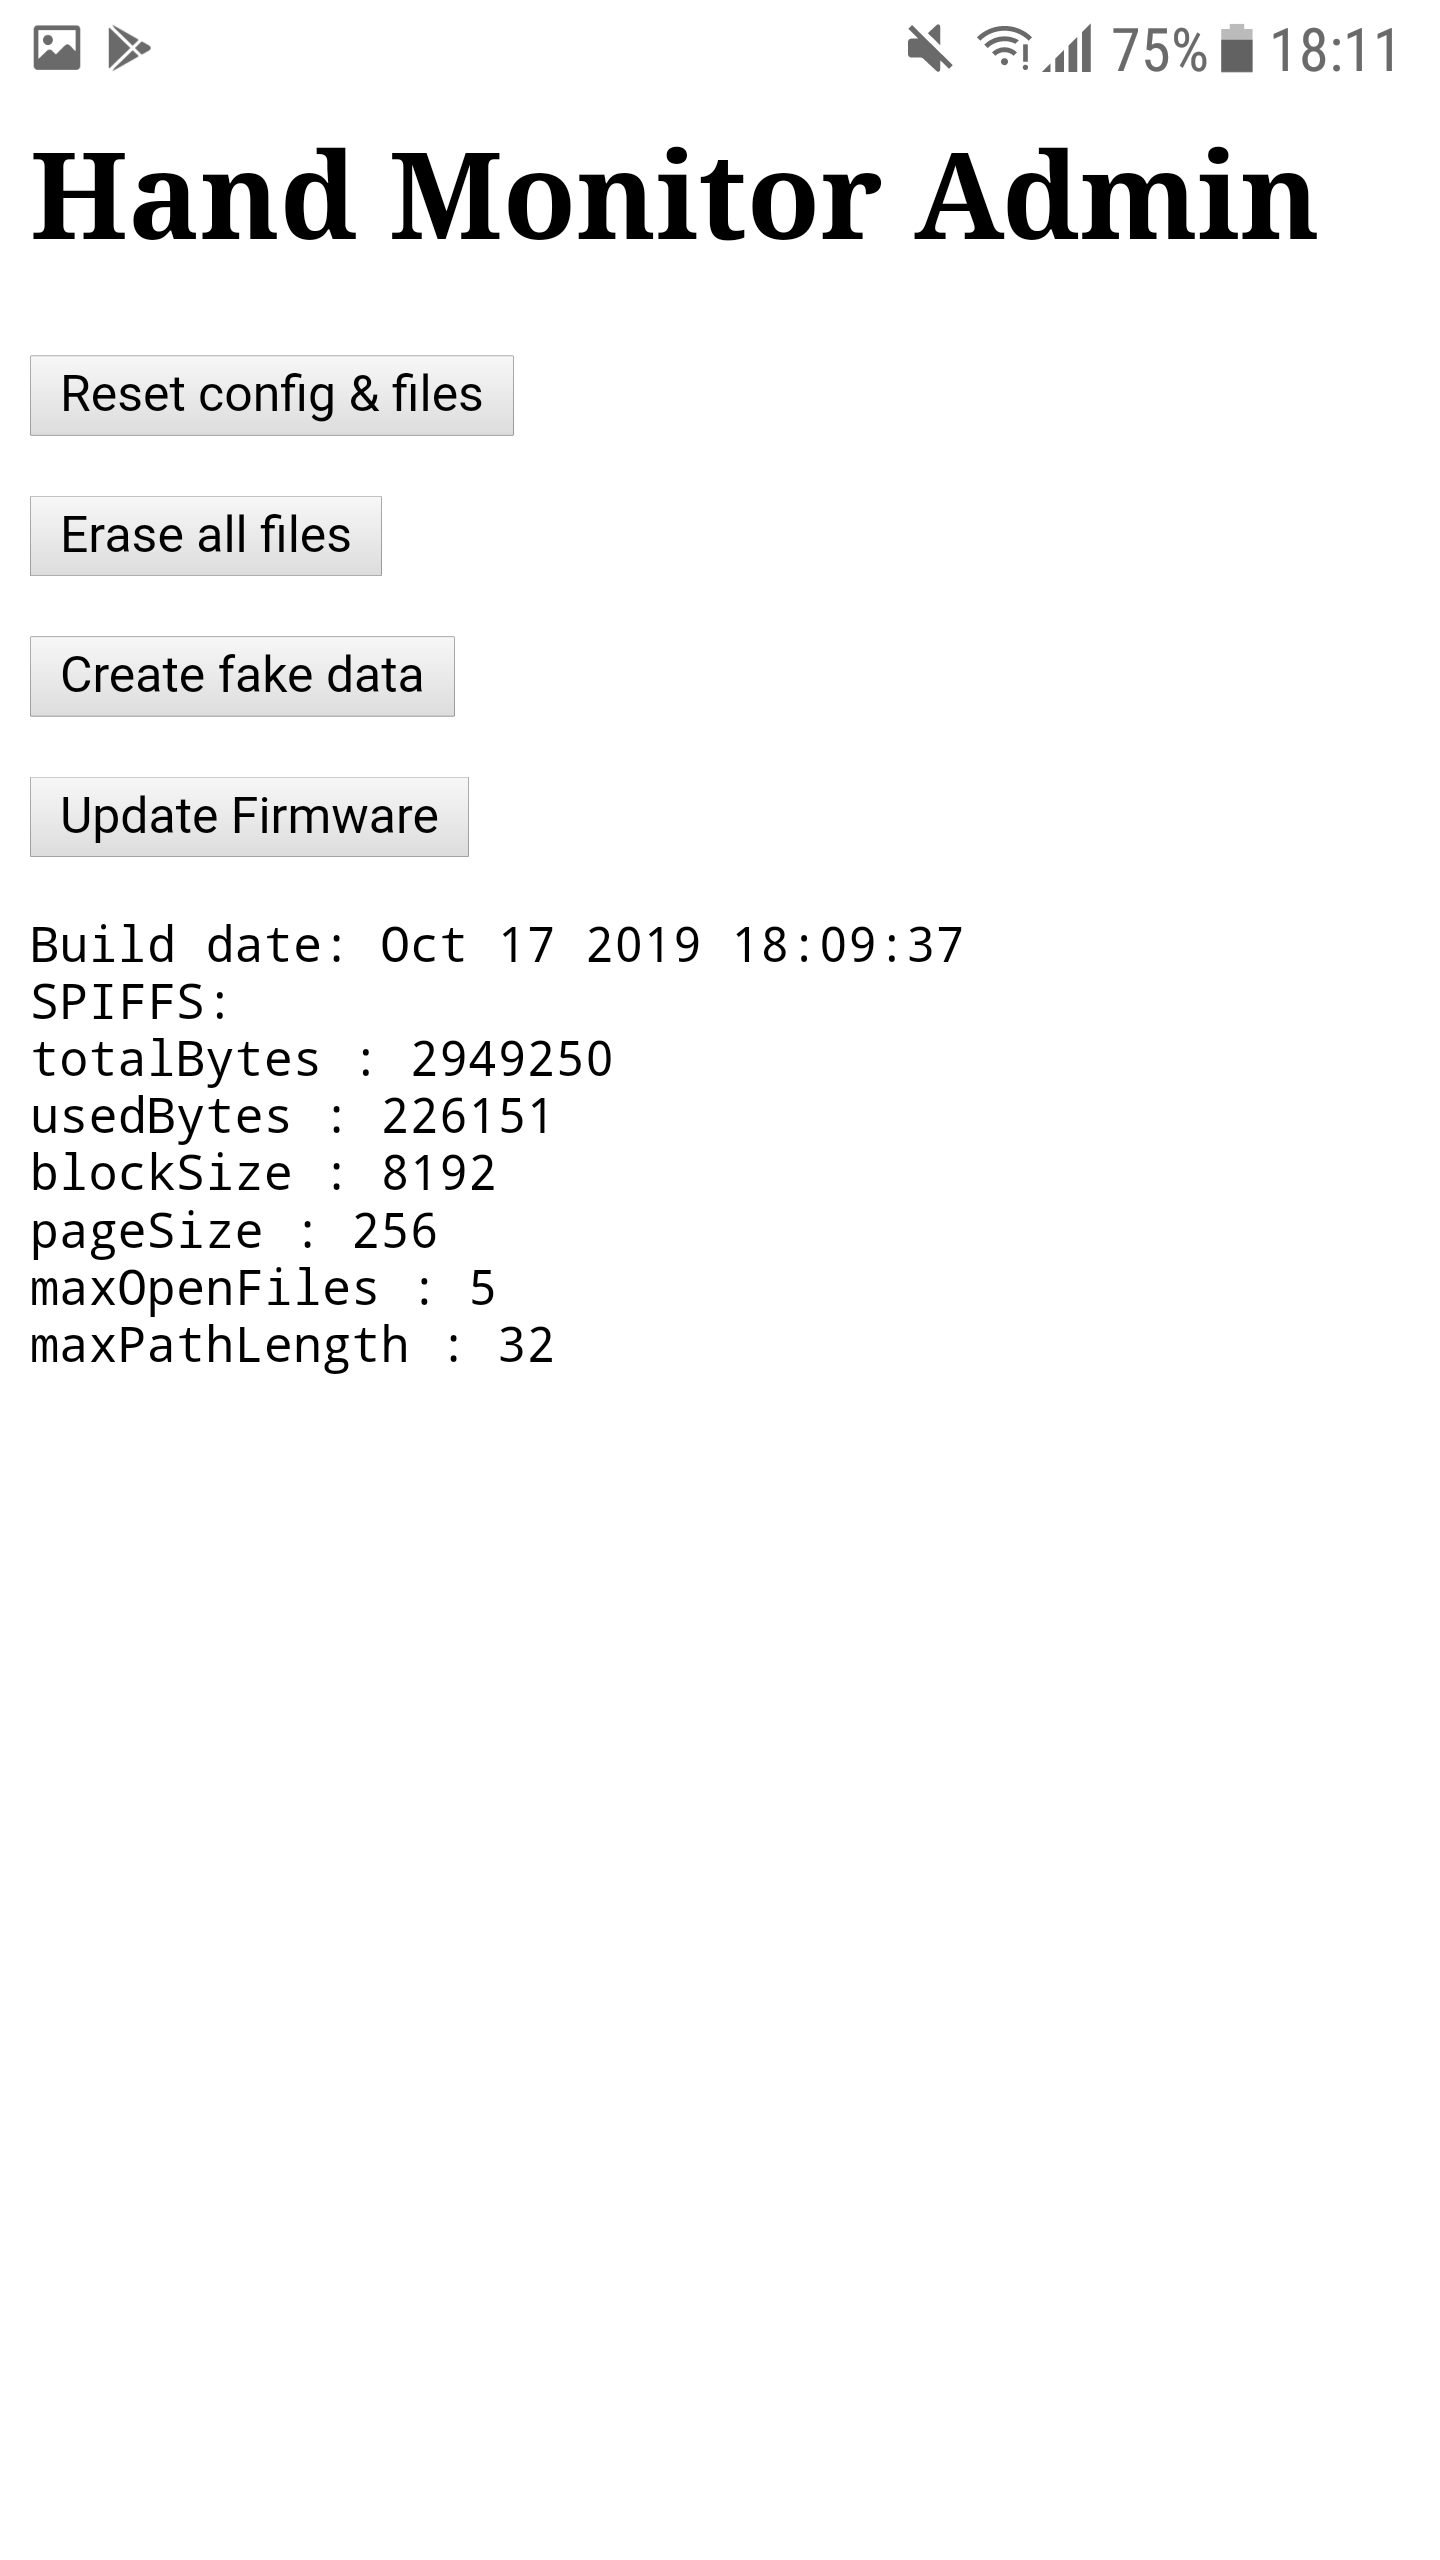
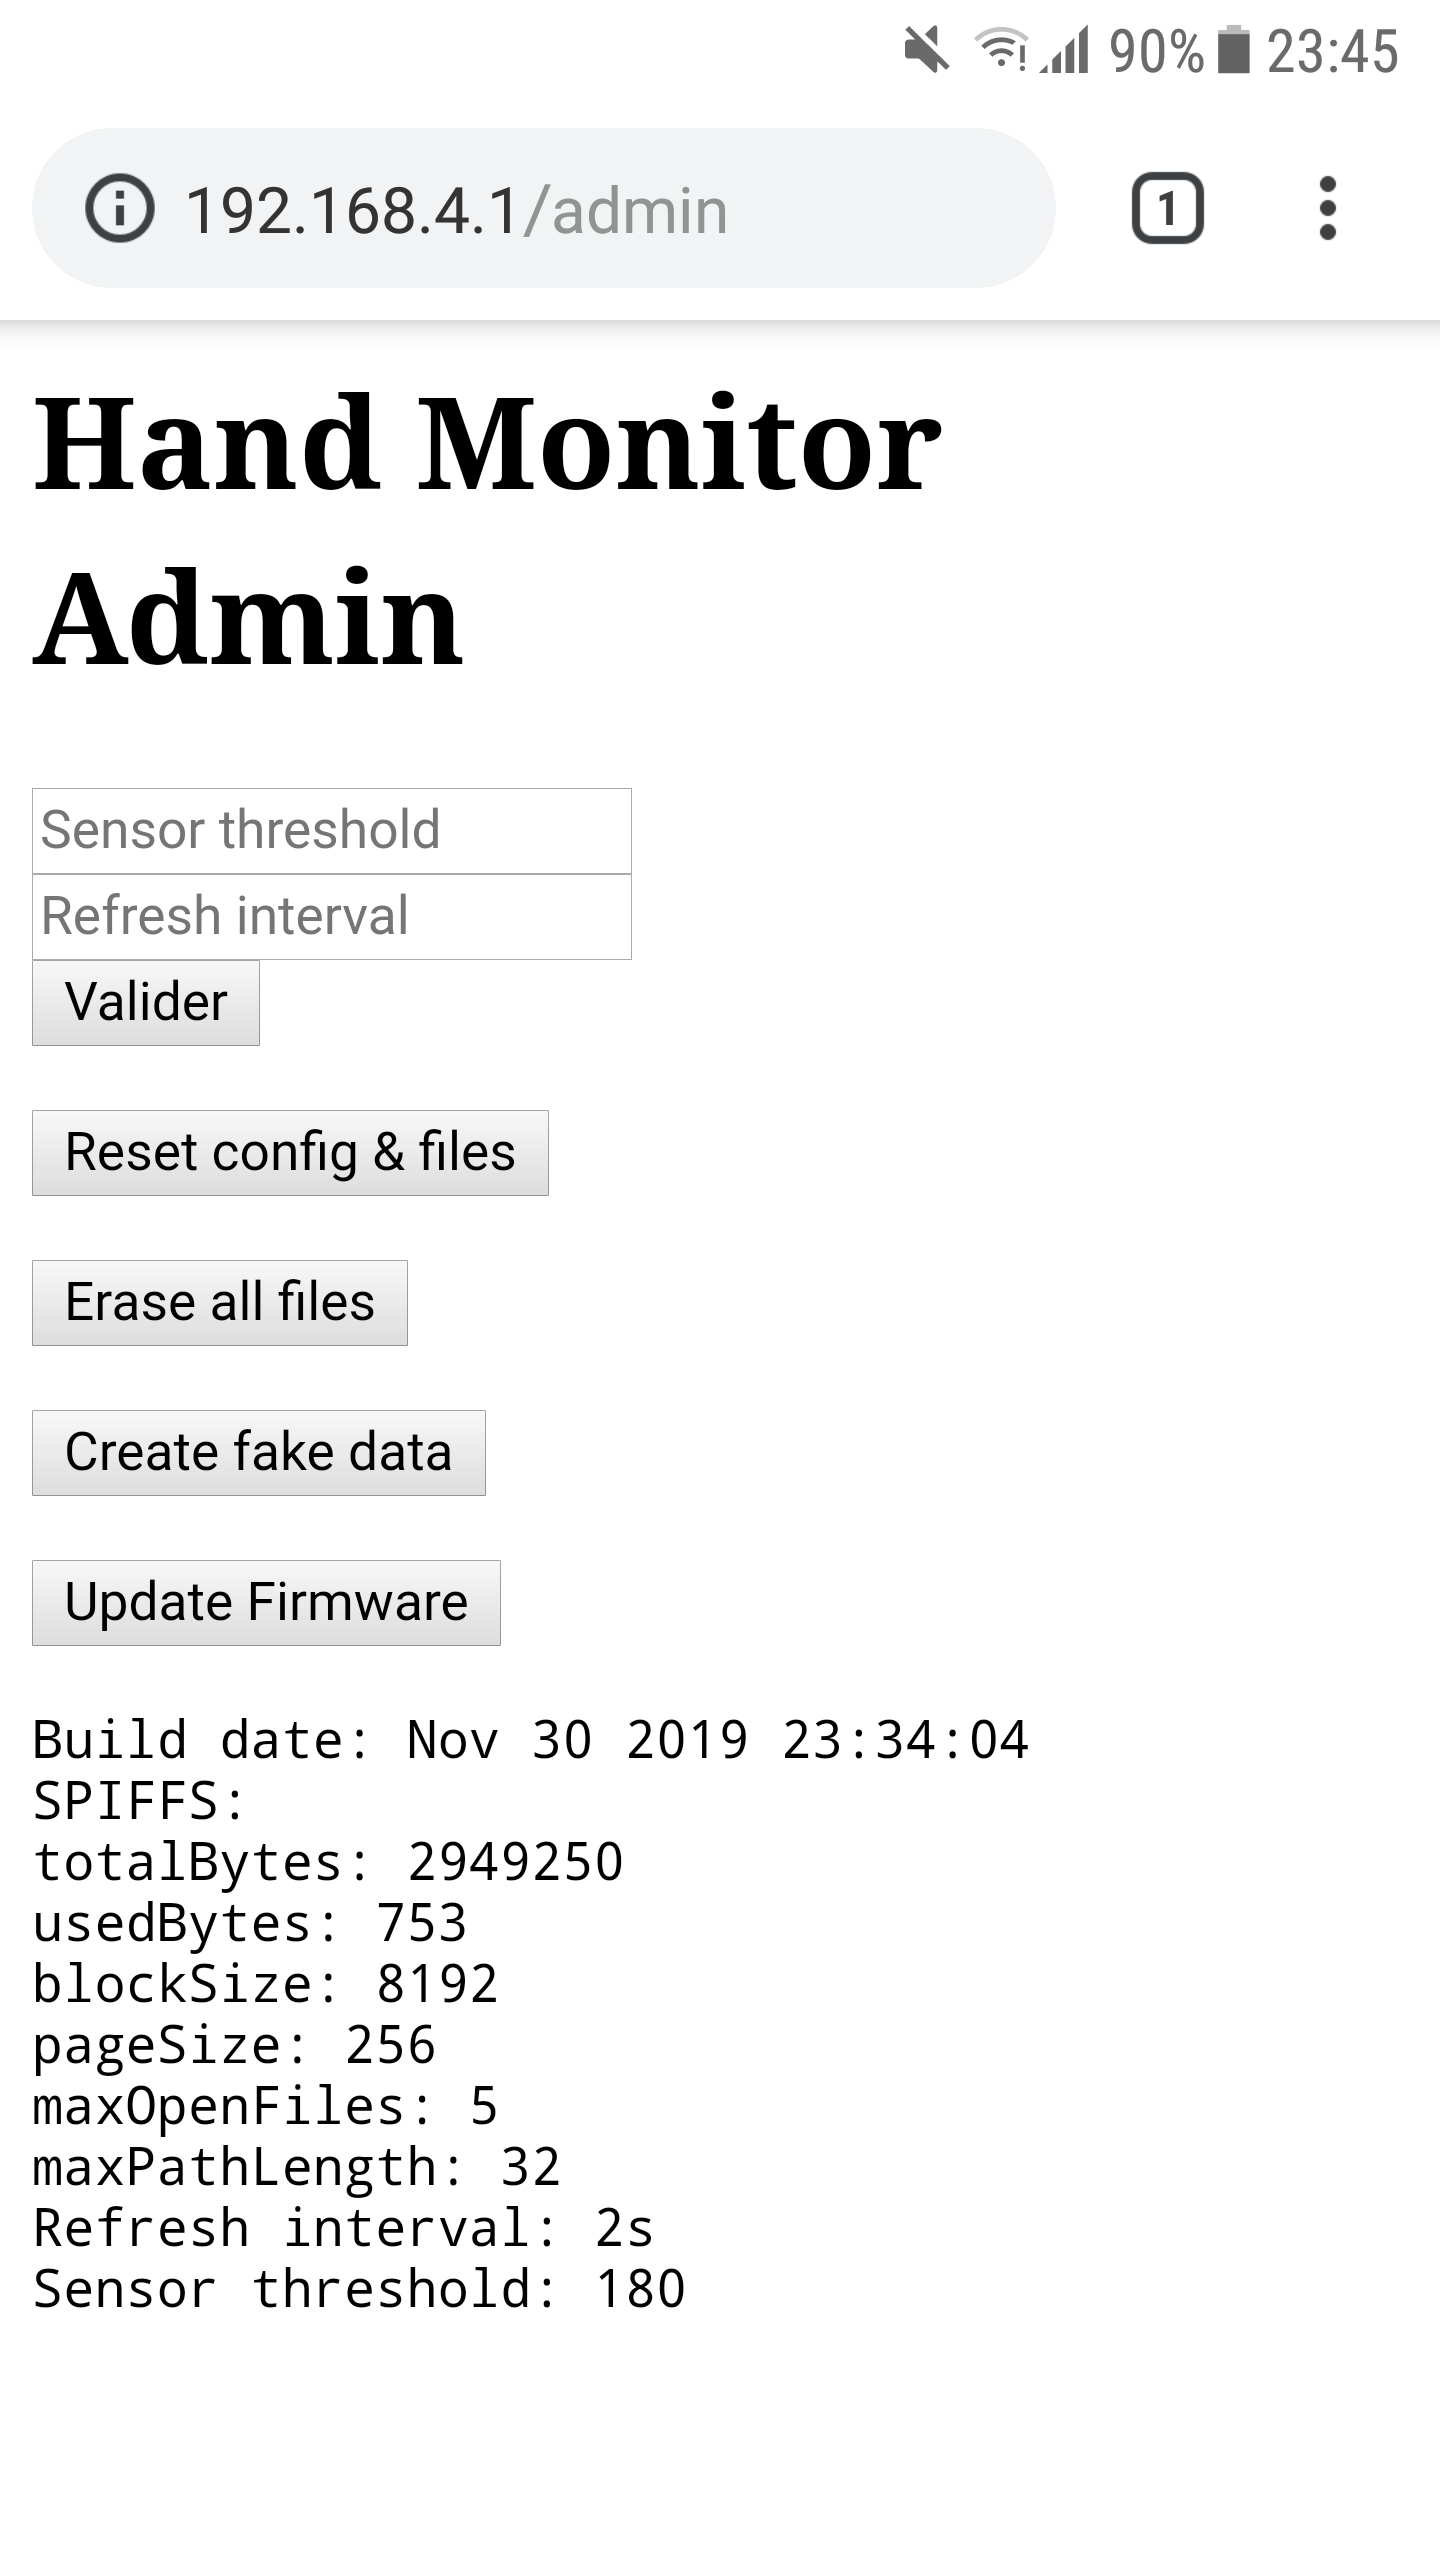
Pictures of the 1000 mAh device

diff --git a/handMonitor/include/adminPage.h b/handMonitor/include/adminPage.h
@@ -23,8 +23,8 @@ char adminPage[] = "\
   <input name='webSite' type='text' placeholder='" MSG_INIT_WEBSITE "'/><br/>\
   <input name='apiKey' type='text' placeholder='" MSG_INIT_API_KEY "'/><br/>\
   -->\
-  <input name='sensorThreshold' type='number' min='0' max='1024' placeholder='" MSG_INIT_SENSOR_THRESHOLD "' size='20'/><br/>\
-  <input name='refreshInterval' type='number' min='0' max='300' placeholder='" MSG_INIT_REFRESH_INTERVAL "' size='20'/><br/>\
+  <input name='sensorThreshold' type='number' min='0' max='1024' placeholder='" MSG_INIT_SENSOR_THRESHOLD "' style='width: 150px;'/><br/>\
+  <input name='refreshInterval' type='number' min='0' max='300' placeholder='" MSG_INIT_REFRESH_INTERVAL "' style='width: 150px;'/><br/>\
   <input type='submit'/>\
 </form>\
 <form action='/reset' method='post'>\
